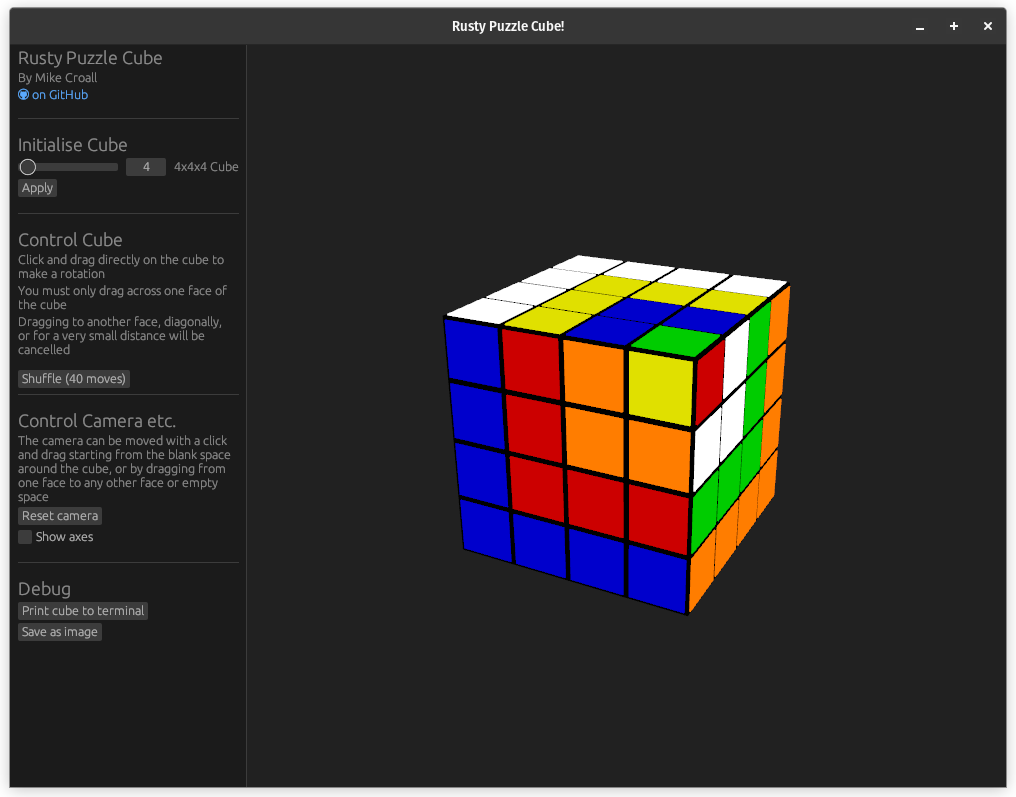
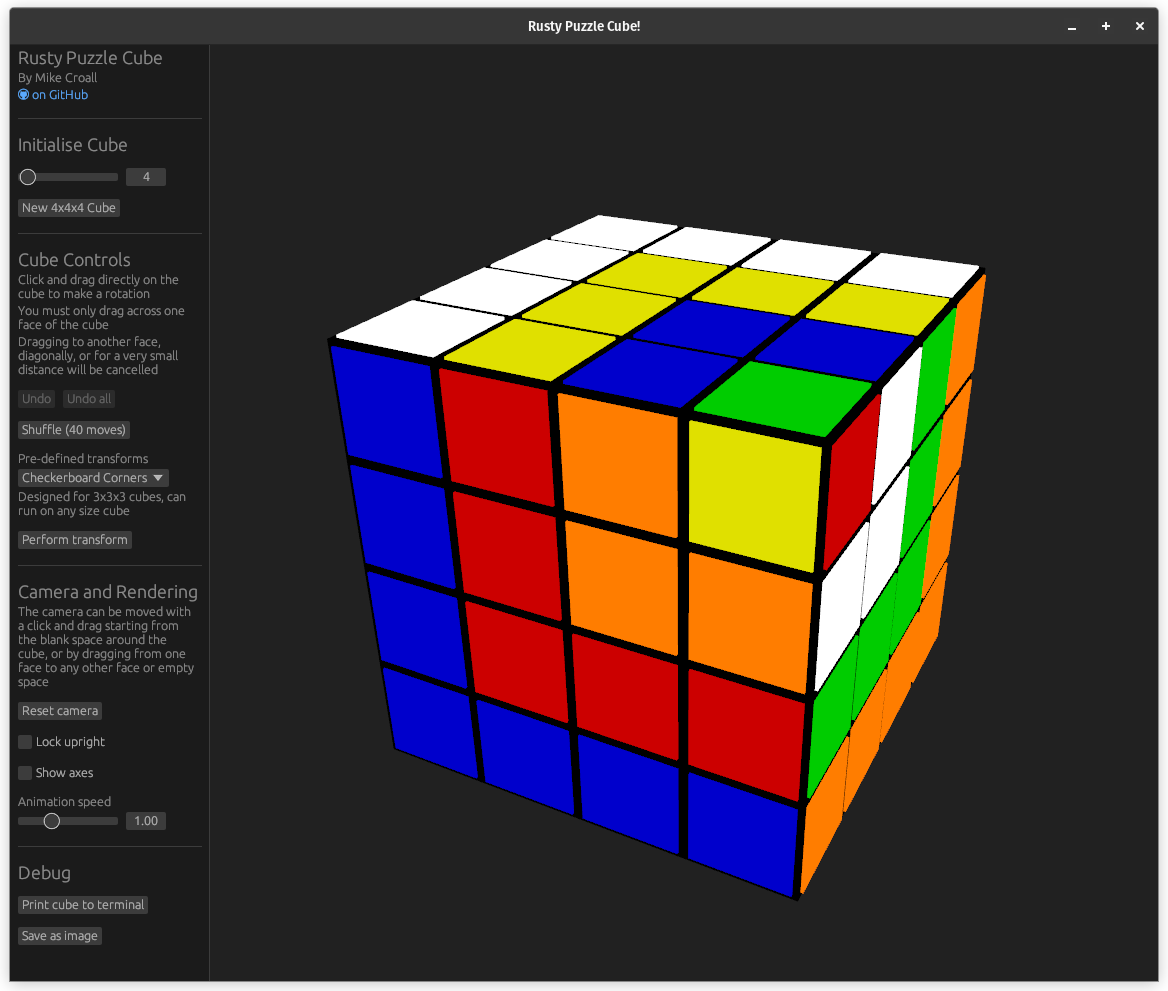
readme: update for known transforms refactor and gui

diff --git a/README.md b/README.md
@@ -9,12 +9,15 @@
 
 ### Puzzle Cube GUI Crate
 
-Experimental, still a work in progress, etc.
+Still a work in progress. Screenshots and/or demo gif may not be fully up to date with the latest features.
 
 ![Demo video](img/demo-3D.gif)
 
 ![Cube in Cube in Cube 3D 4x4x4 screenshot](img/4x4x4-3D-cicic.png)
+
 ![Shuffled 3D 10x10x10 screenshot](img/10x10x10-3D-shuffle.png)
+
+![Known transforms dropdown screenshot](img/known-transforms-dropdown.png)
 
 #### Controls
 
@@ -42,9 +45,11 @@ Then visit `http://localhost:8080`
 
 ### Puzzle Cube Lib Crate Demo
 
-Demos of basic notation being parsed and applied to a newly created cube
+Demos of known transforms and basic notation being parsed and applied to a newly created cube
 
-#### Cube in Cube in Cube
+#### Notation Parsed: Cube in Cube in Cube
+
+Also available as `KnownTransform::NestedCube3x3x3`
 
 ```rust
 let mut cube = Cube::create(3.try_into()?);
@@ -55,12 +60,11 @@ print!("{cube}");
 
 ![Cube in Cube in Cube output screenshot](img/cube-in-cube-in-cube.png)
 
-#### Checkerboard Corners
+#### Known Transform: Checkerboard Corners
 
 ```rust
 let mut cube = Cube::create(3.try_into()?);
-let notation = "R2 L2 F2 B2 U2 D2";
-perform_notation(notation, &mut cube)?;
+KnownTransform::CheckerboardCorners3x3x3.perform_instantly(&mut cube);
 print!("{cube}");
 ```
 
